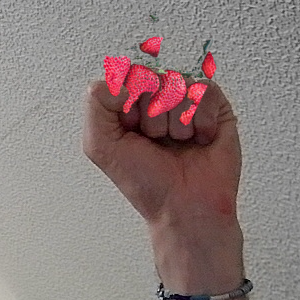
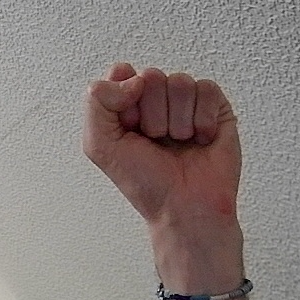
Use real rose photo + GrabCut cutout (fix mistaken image)

Changed region(s): [[0.33, 0.12, 0.72, 0.42], [0.48, 0.03, 0.54, 0.09]]

diff --git a/source/_posts/rose_fist.md b/source/_posts/rose_fist.md
@@ -71,7 +71,17 @@ categories:
 
 ![](/rose_fist/site_images/rock_with_real_rose.png)
 
-（本次使用“真实照片 + GrabCut 自动抠图”的玫瑰 cutout 做测试素材：图片来源为 picsum 的 seed=4 随机照片，用于展示管线；若需要指定真实玫瑰照片来源，可替换输入图再生成 cutout。）
+玫瑰原始照片（抠图前）：
+
+![](/rose_fist/assets/rose_photo_source.jpg)
+
+抠图后的透明 PNG（用于叠加）：
+
+![](/rose_fist/assets/rose_real_cutout.png)
+
+（本次使用“真实玫瑰照片 + GrabCut 自动抠图”的 cutout 做测试素材：
+- 来源：eXternOS-Base 仓库内的 `legacy/yellow-rose.jpg`（真实玫瑰照片，非卡通）
+- 抠图：`src/grabcut_cutout.py` 自动生成 `assets/rose_real_cutout.png`）
 
 （对比：之前“仅花朝向大拇指”的版本）
 
